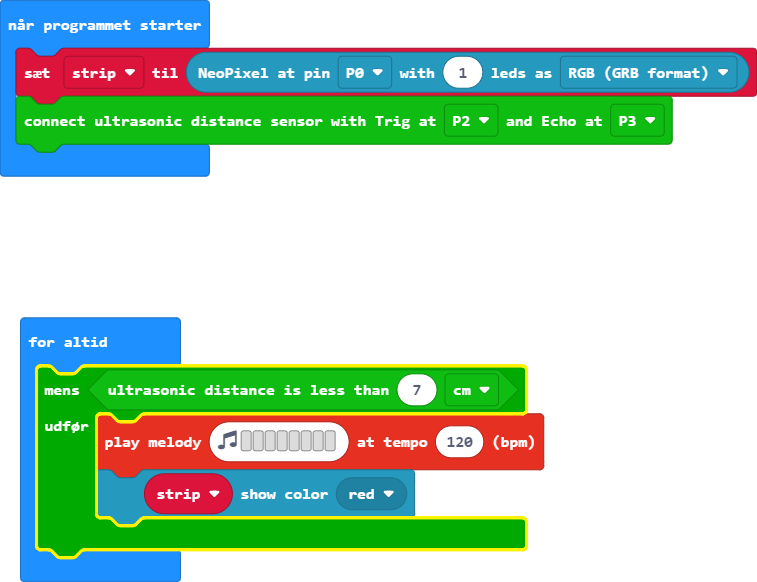
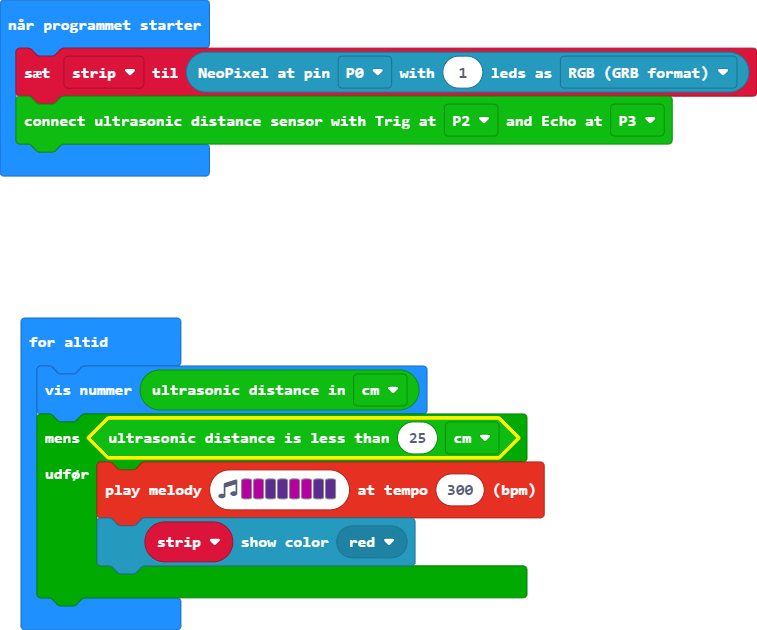
Opdater main.blocks, main.ts

Changed region(s): [[0.0, 0.4948, 0.7292, 0.9588], [0.0, 0.0309, 1.0, 0.3093]]

diff --git a/main.ts b/main.ts
@@ -1,8 +1,9 @@
 let strip = neopixel.create(DigitalPin.P0, 1, NeoPixelMode.RGB)
 makerbit.connectUltrasonicDistanceSensor(DigitalPin.P2, DigitalPin.P3)
 basic.forever(function () {
-    while (makerbit.isUltrasonicDistanceLessThan(7, DistanceUnit.CM)) {
-        music.playMelody("- - - - - - - - ", 120)
+    basic.showNumber(makerbit.getUltrasonicDistance(DistanceUnit.CM))
+    while (makerbit.isUltrasonicDistanceLessThan(25, DistanceUnit.CM)) {
+        music.playMelody("C C D D C C D D ", 300)
         strip.showColor(neopixel.colors(NeoPixelColors.Red))
     }
 })
